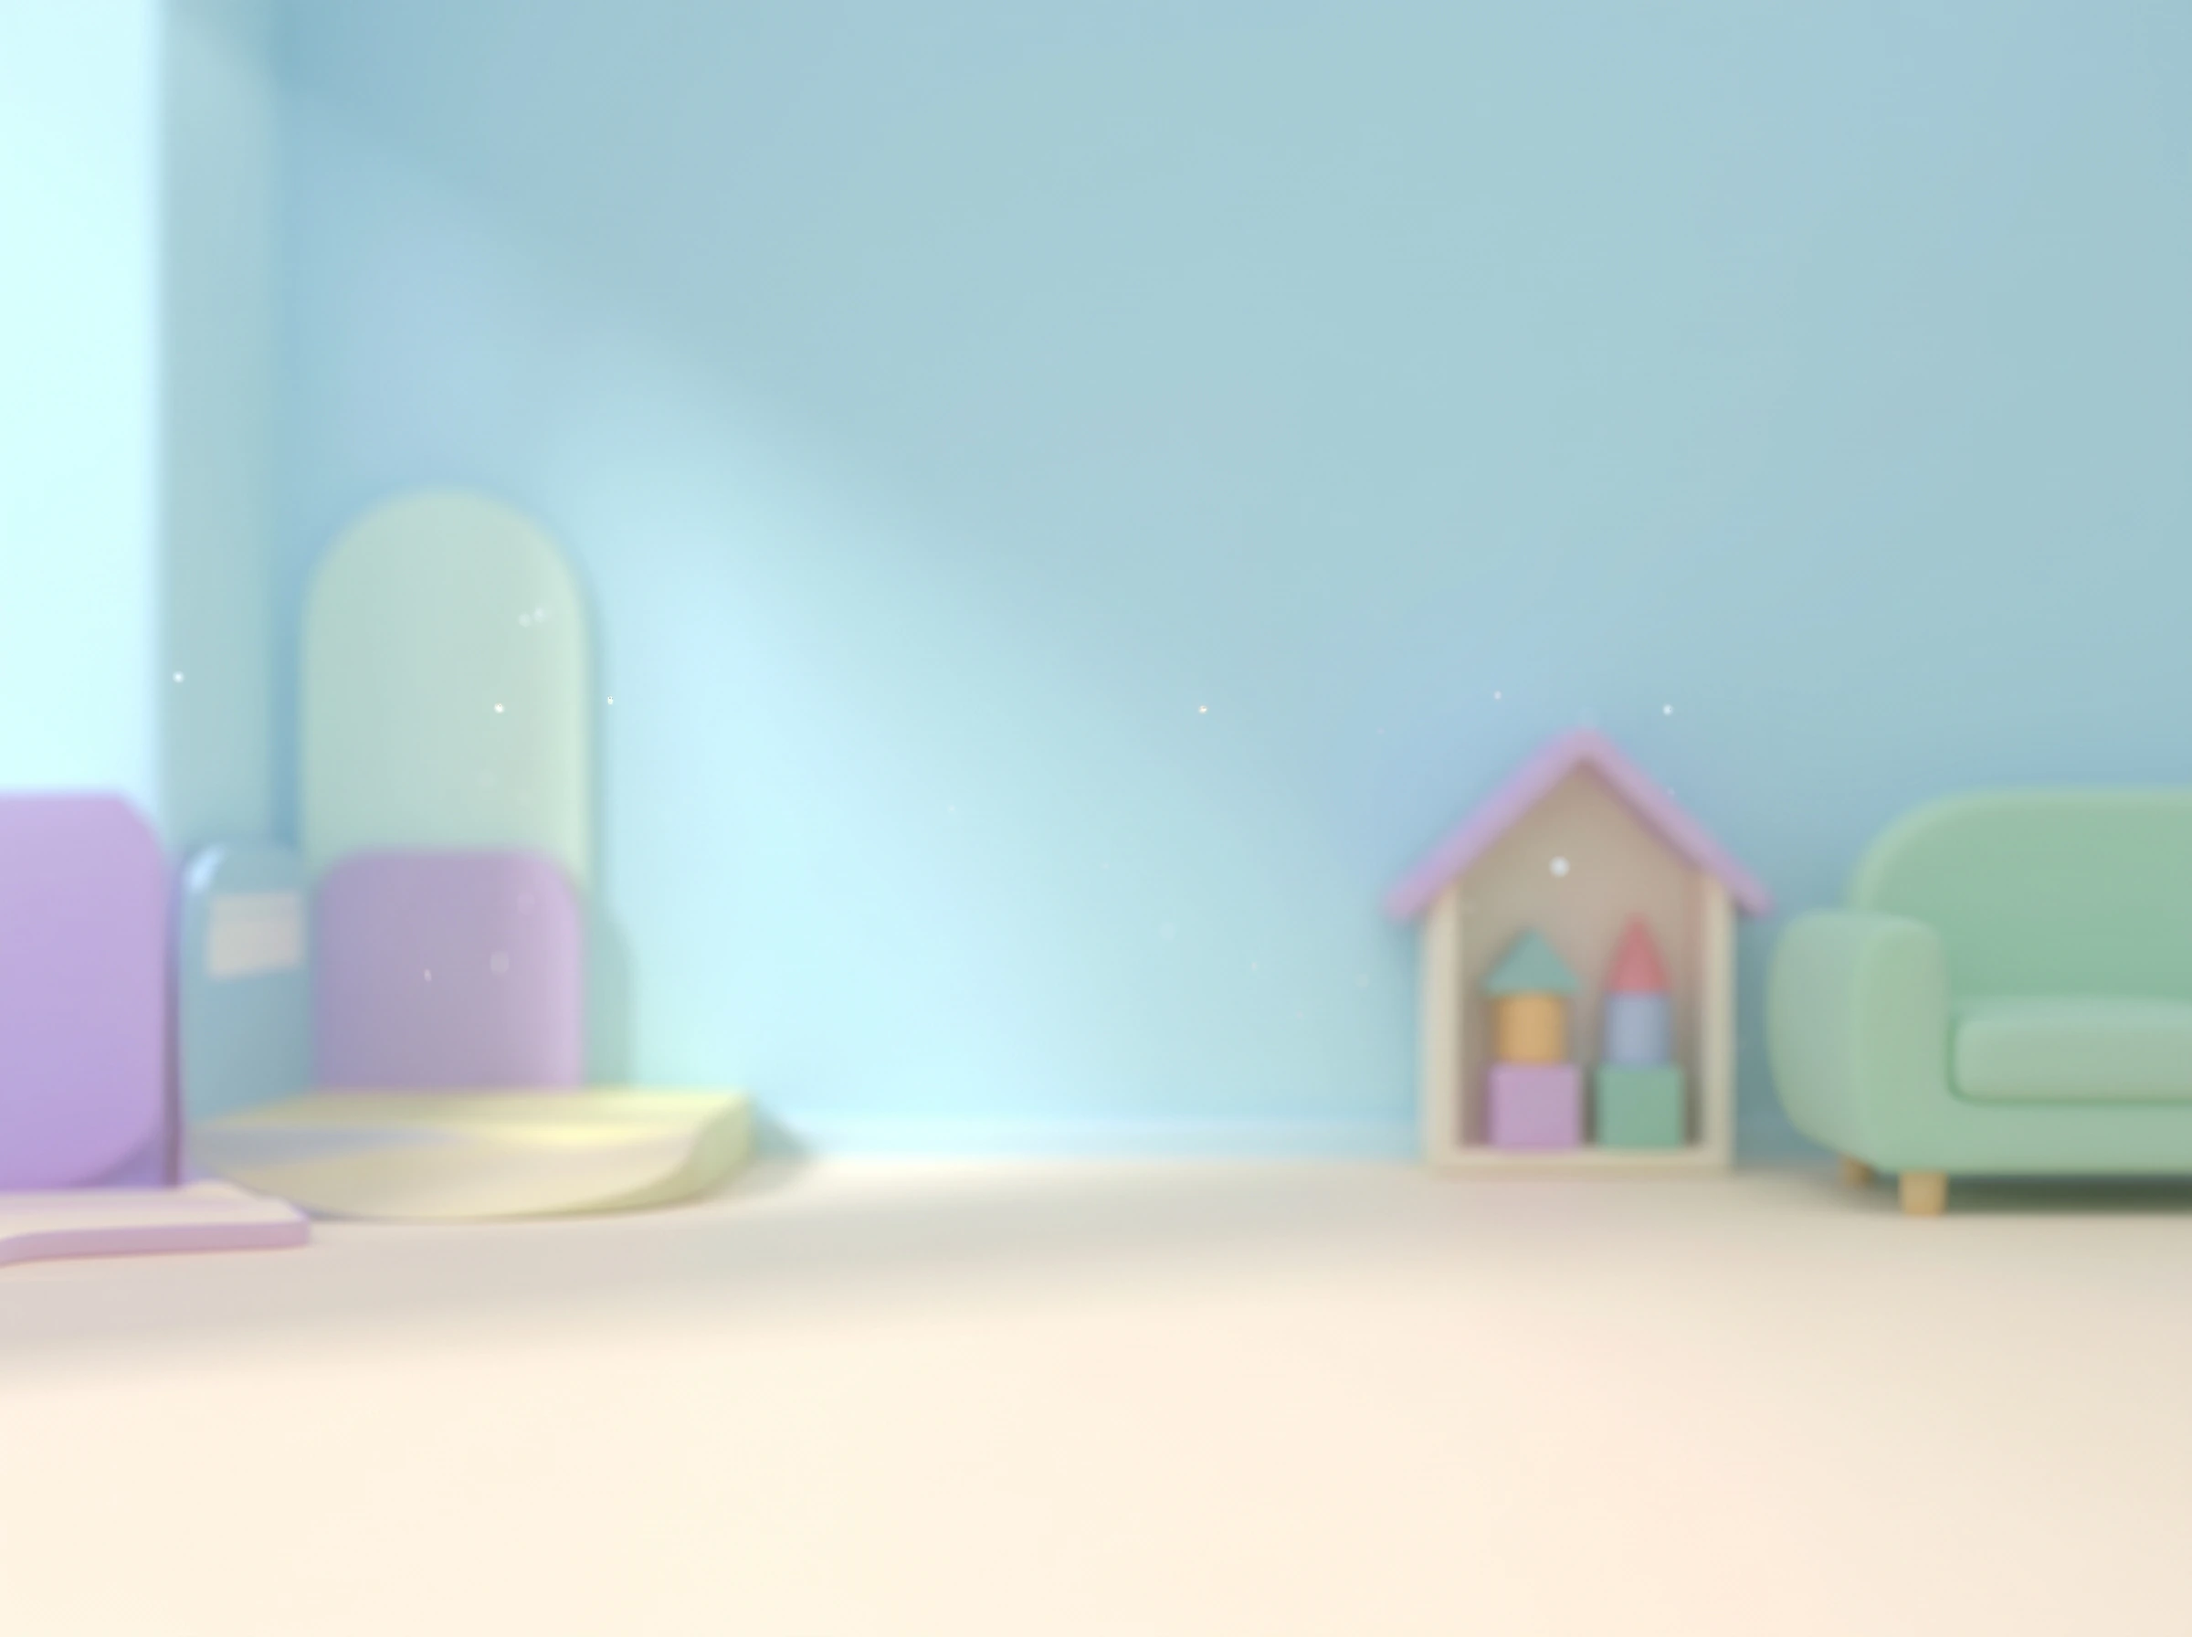
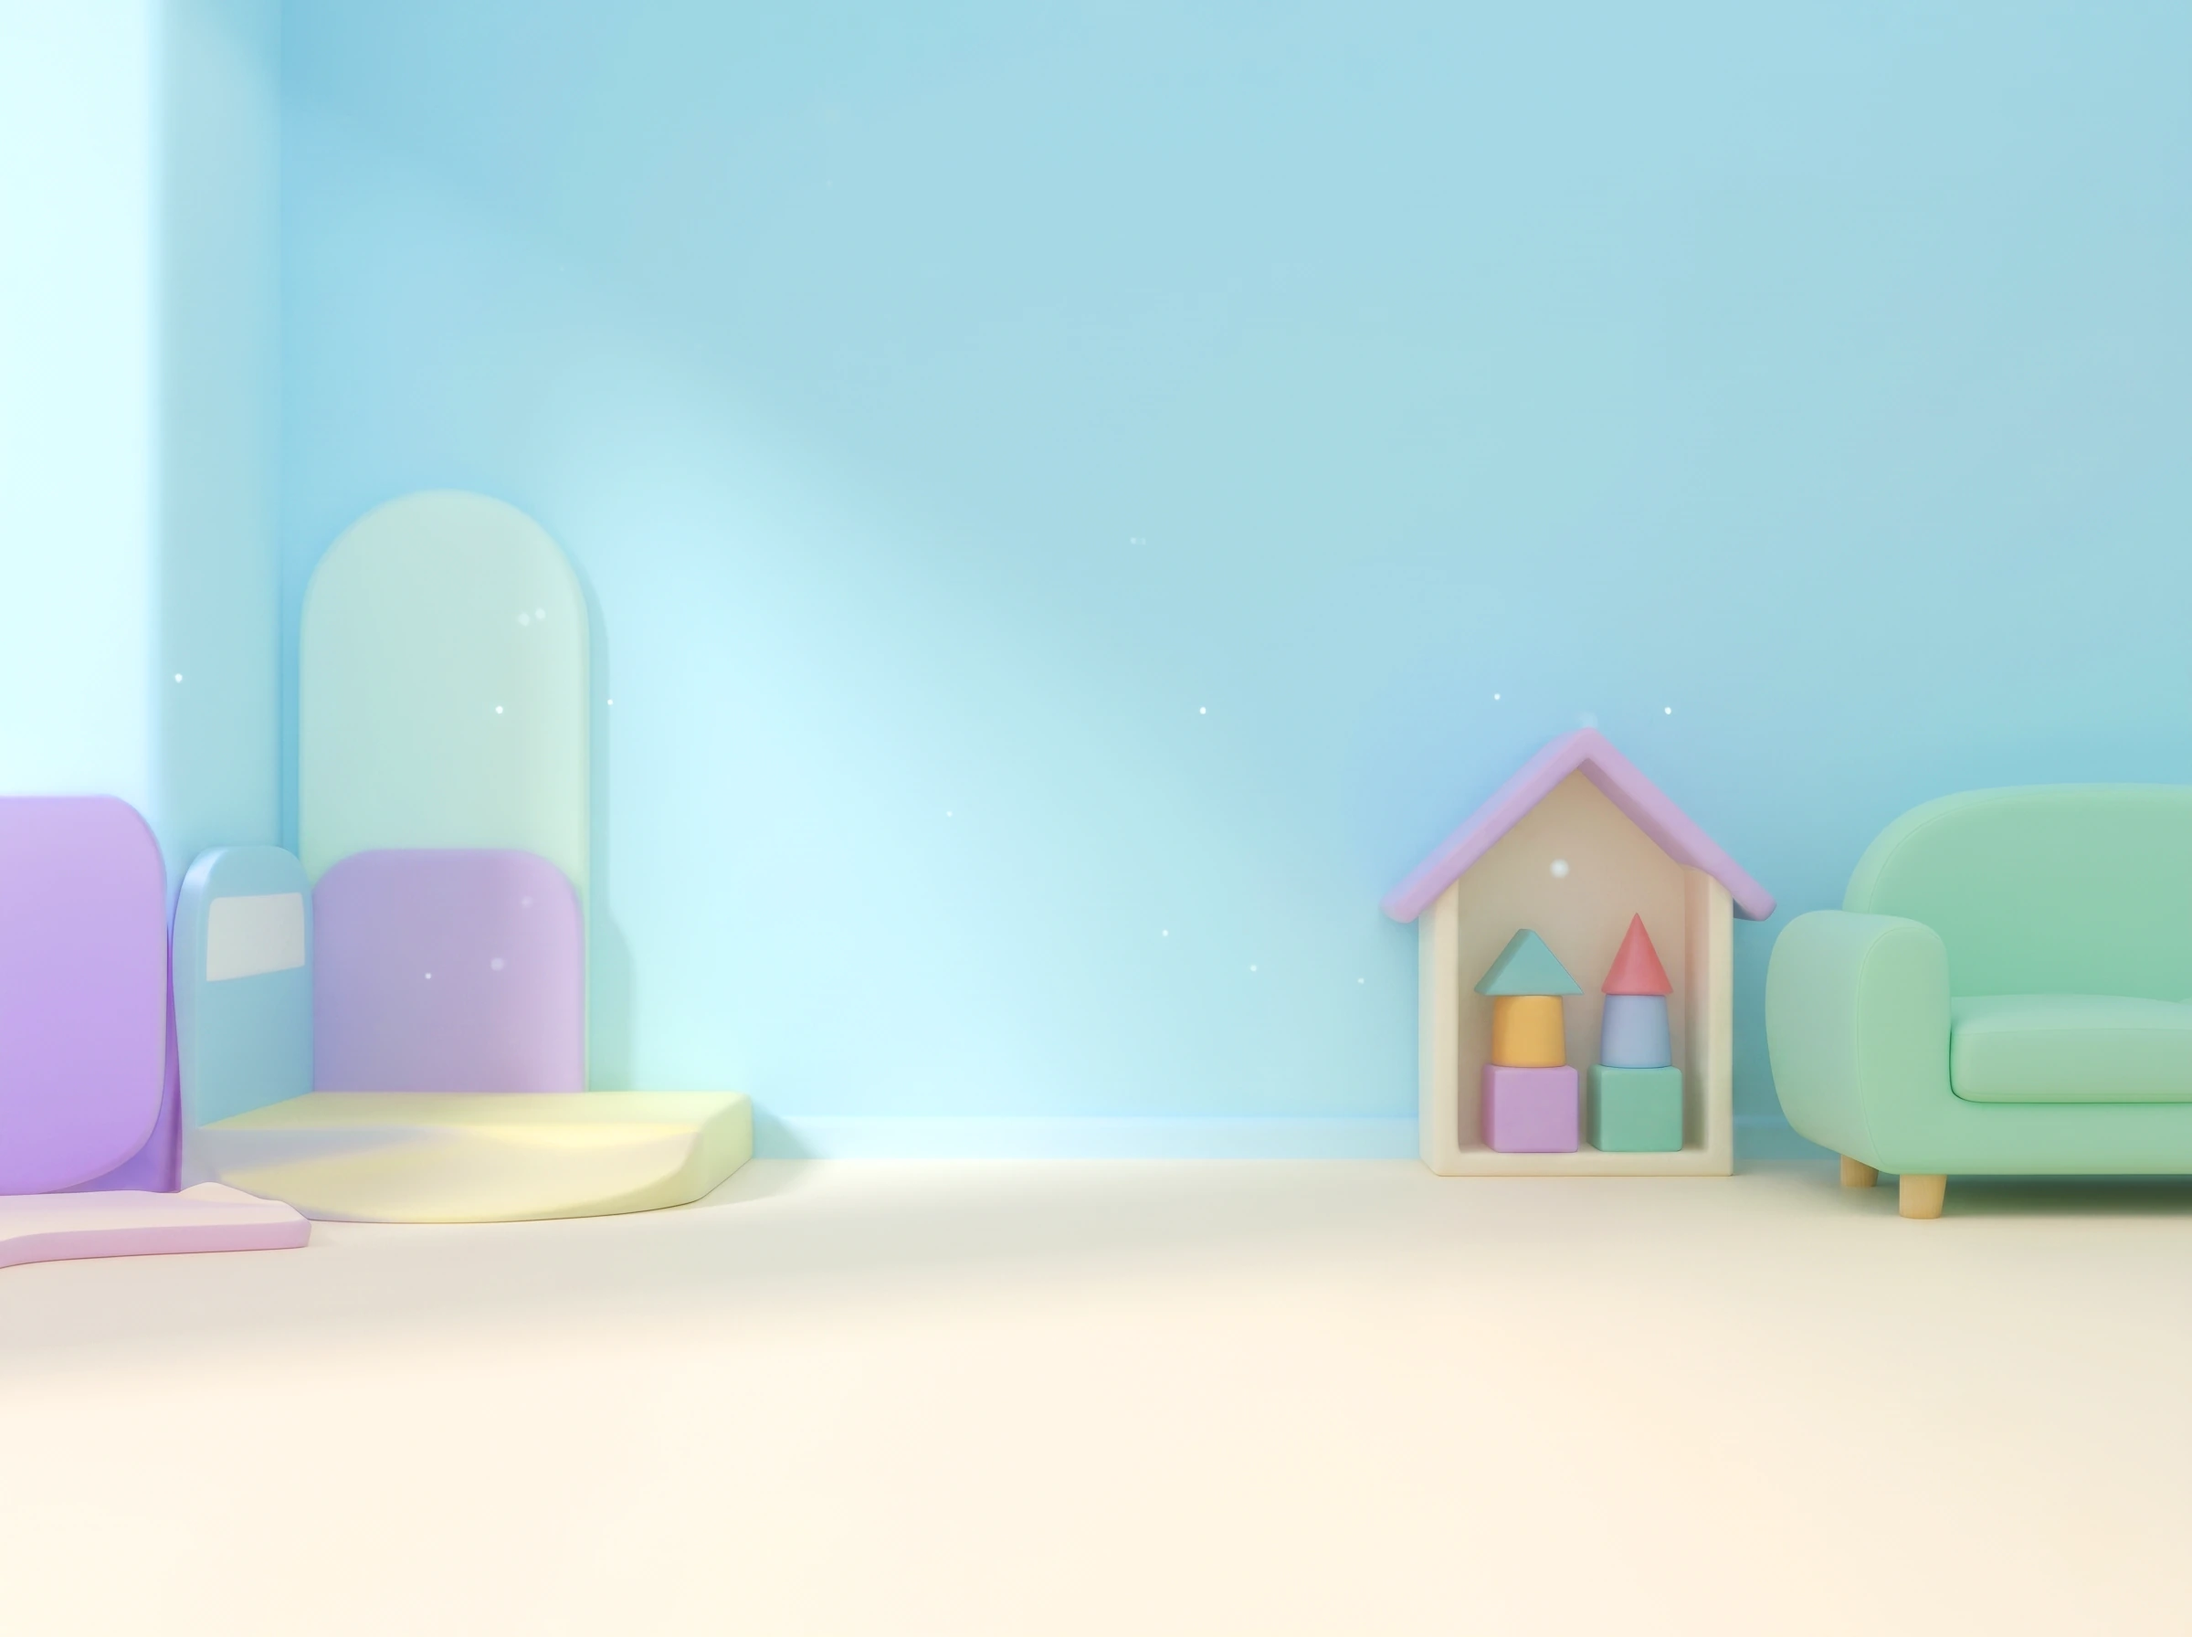
New backdrop for the title and the game: the user's croco_phonics_bg2.png
User: 게임화면과 인트로 화면 배경 다운로드에 croco_phonics_bg2.png 파일명으로 올려놨어 적용해줘
- assets/img/bg.webp <- ~/Downloads/croco_phonics_bg2.png (2400x1792, the same size as before, webp q92, 81 KB);
  .room keeps center 56% / cover; checked the title and the game at 1728x1117 and a portrait title (820x1180)
- tools/import_art.py: --bg / --logo pick the source file and import only that one (no flags = both, default names)

diff --git a/index.html b/index.html
@@ -12,7 +12,7 @@
 </head>
 <body>
 <div id="app" data-screen="title" data-turn="0">
-  <!-- playroom backdrop (the user's croco_bg.png → assets/img/bg.webp) + floating sparkles -->
+  <!-- playroom backdrop (the user's croco_phonics_bg2.png → assets/img/bg.webp, tools/import_art.py) + floating sparkles -->
   <div class="room" aria-hidden="true">
     <i class="mote" style="--x:31%;--y:13%;--c:#ff9fc4;--d:0s"></i><i class="mote" style="--x:63%;--y:11%;--c:#b3a2ff;--d:-1.2s"></i>
     <i class="mote" style="--x:73%;--y:24%;--c:#ff9fc4;--d:-2.4s"></i><i class="mote" style="--x:24%;--y:29%;--c:#8fe0b6;--d:-.6s"></i>

diff --git a/tools/import_art.py b/tools/import_art.py
@@ -1,24 +1,33 @@
 """Import the user's art from ~/Downloads into the game (run again when the user drops new versions):
-  croco_bg.png   → assets/img/bg.webp    playroom backdrop (2400×1792, floor line at 70 % of its height)
+  croco_bg.png   → assets/img/bg.webp    playroom backdrop for the title and the game (2400×1792)
   croco_logo.png → assets/img/logo.webp  title logo (already cut out: alpha kept as is)
 
-uv run --with pillow python tools/import_art.py
+uv run --with pillow python tools/import_art.py                                  # both, default names
+uv run --with pillow python tools/import_art.py --bg croco_phonics_bg2.png       # only the backdrop, from that file
+uv run --with pillow python tools/import_art.py --logo croco_logo.png            # only the logo
 """
-import pathlib
+import sys, pathlib
 from PIL import Image
 
 ROOT = pathlib.Path(__file__).resolve().parent.parent
 DL = pathlib.Path.home() / 'Downloads'
 IMG = ROOT / 'assets' / 'img'
 
-bg = Image.open(DL / 'croco_bg.png').convert('RGB')
-bg.save(IMG / 'bg.webp', quality=92, method=6)
-print('bg.webp', bg.size, (IMG / 'bg.webp').stat().st_size, 'bytes')
+args = sys.argv[1:]
+pick = {k: args[args.index(f'--{k}') + 1] for k in ('bg', 'logo') if f'--{k}' in args}
+if not pick:
+    pick = {'bg': 'croco_bg.png', 'logo': 'croco_logo.png'}
 
-logo = Image.open(DL / 'croco_logo.png').convert('RGBA')
-bbox = logo.getchannel('A').point(lambda a: 255 if a > 8 else 0).getbbox()
-logo = logo.crop(bbox)
-if logo.width > 1400:
-    logo = logo.resize((1400, round(logo.height * 1400 / logo.width)), Image.LANCZOS)
-logo.save(IMG / 'logo.webp', quality=90, alpha_quality=100, method=6, exact=True)
-print('logo.webp', logo.size, (IMG / 'logo.webp').stat().st_size, 'bytes')
+if 'bg' in pick:
+    bg = Image.open(DL / pick['bg']).convert('RGB')
+    bg.save(IMG / 'bg.webp', quality=92, method=6)
+    print('bg.webp ←', pick['bg'], bg.size, (IMG / 'bg.webp').stat().st_size, 'bytes')
+
+if 'logo' in pick:
+    logo = Image.open(DL / pick['logo']).convert('RGBA')
+    bbox = logo.getchannel('A').point(lambda a: 255 if a > 8 else 0).getbbox()
+    logo = logo.crop(bbox)
+    if logo.width > 1400:
+        logo = logo.resize((1400, round(logo.height * 1400 / logo.width)), Image.LANCZOS)
+    logo.save(IMG / 'logo.webp', quality=90, alpha_quality=100, method=6, exact=True)
+    print('logo.webp ←', pick['logo'], logo.size, (IMG / 'logo.webp').stat().st_size, 'bytes')

diff --git a/README.md b/README.md
@@ -111,7 +111,7 @@
 - 배경음악: 직접 합성한 신나는 루프(`tools/make_bgm.py` → `assets/audio/bgm.mp3` + `js/bgm-data.js`): F장조 132 BPM 16마디 약 29초.
   스틸드럼 멜로디, 통통 튀는 베이스, 엇박 우쿨렐레 코드, 킥·박수·하이햇·봉고, 8마디마다 필인. 매직블록과는 다른 곡과 코드.
   루프 이음매 없음. 게임 안 음량은 예전 곡과 같은 수준(-22.7 dBFS, 예전 -23.2)이고 목소리가 나올 때는 줄어든다.
-- 에셋: `assets/img/logo.webp`·`bg.webp`(다운로드의 `croco_logo.png`·`croco_bg.png` → `tools/import_art.py`로 다시 가져옴), `hand.webp`(다른 파닉스 게임의 장갑 손, 대기 힌트), `crown.webp`(매직블록의 3D 왕관, 이긴 사람 머리 위), `p1/p2.webp`(게임 화면 레퍼런스의 아바타 · `tools/crop_avatars.py`), `assets/cards/`, `assets/voice/`.
+- 에셋: `assets/img/logo.webp`·`bg.webp`(다운로드의 `croco_logo.png`·배경 `croco_phonics_bg2.png` → `tools/import_art.py`로 가져옴. 배경만: `--bg 파일명`), `hand.webp`(다른 파닉스 게임의 장갑 손, 대기 힌트), `crown.webp`(매직블록의 3D 왕관, 이긴 사람 머리 위), `p1/p2.webp`(게임 화면 레퍼런스의 아바타 · `tools/crop_avatars.py`), `assets/cards/`, `assets/voice/`.
 - 레퍼런스(사용자 Gemini 이미지)는 `design/*.png` — 용량 때문에 git 제외.
 
 ## 음성
